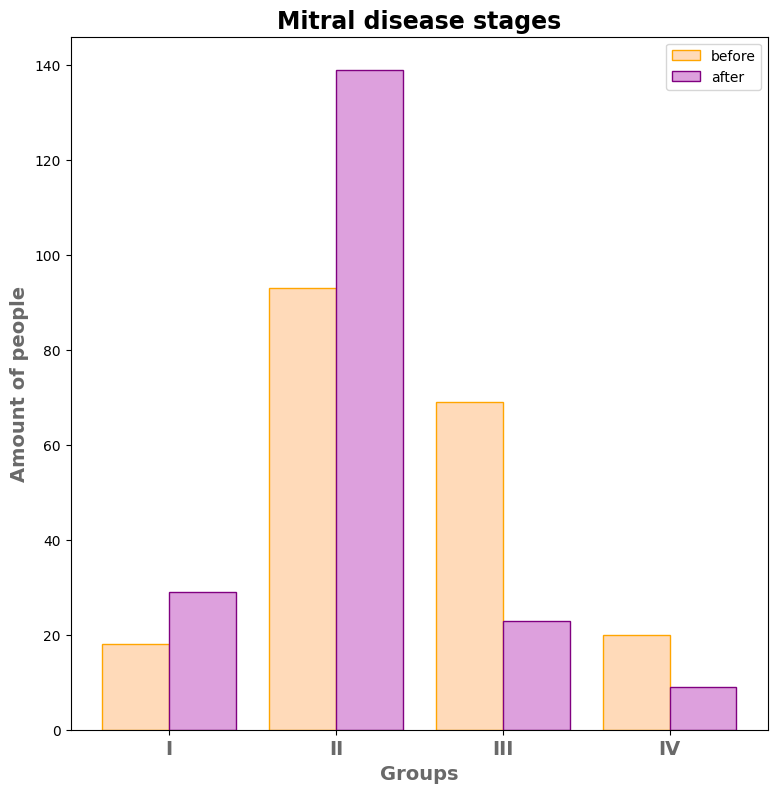
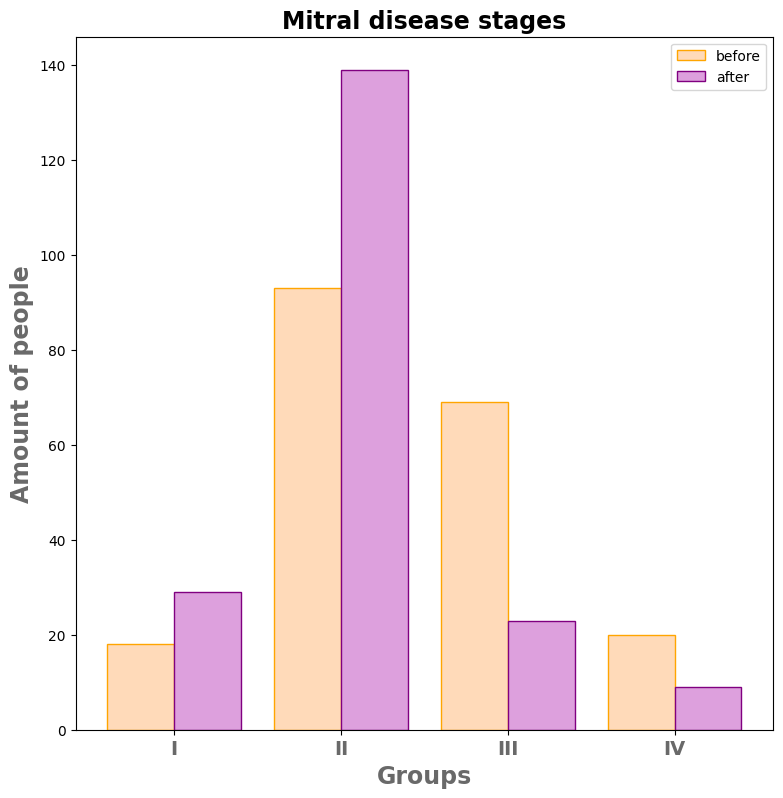
beautify code

diff --git a/solutions/sem02/lesson07/task1.py b/solutions/sem02/lesson07/task1.py
@@ -8,17 +8,11 @@ class ShapeMismatchError(Exception):
     pass
 
 
-def visualize_diagrams(
+def make_figure_axis(
     abscissa: np.ndarray,
     ordinates: np.ndarray,
-    diagram_type: Any,
-) -> None:
-    if abscissa.shape != ordinates.shape:
-        raise ShapeMismatchError
-
-    if diagram_type not in ["hist", "violin", "box"]:
-        raise ValueError
-
+    space: float = 0.2,
+) -> tuple[plt.Figure, plt.Axes, plt.Axes, plt.Axes]:
     figure = plt.figure(figsize=(8, 8))
     grid = plt.GridSpec(4, 4, wspace=space, hspace=space)
 
@@ -32,67 +26,124 @@ def visualize_diagrams(
         sharex=axis_scatter,
     )
 
-    axis_scatter.scatter(abscissa, ordinates, color="mediumseagreen", alpha=0.35)
-    axis_scatter.set_title("Distribution", fontsize=17, fontweight="bold", c="dimgray")
+    axis_scatter.scatter(
+        abscissa,
+        ordinates,
+        color="mediumseagreen",
+        alpha=0.35,
+    )
+    axis_scatter.set_title(
+        "Distribution",
+        fontsize=17,
+        fontweight="bold",
+        c="black",
+    )
+
+    return figure, axis_scatter, axis_hor, axis_vert
+
+
+def create_hist_distribution(
+    axis_hor: plt.Axes,
+    axis_vert: plt.Axes,
+    abscissa: np.ndarray,
+    ordinates: np.ndarray,
+) -> None:
+    hist_params = {
+        "bins": 50,
+        "color": "mediumseagreen",
+        "edgecolor": "darkgreen",
+        "alpha": 0.7,
+        "density": True,
+    }
+
+    axis_hor.hist(abscissa, **hist_params)
+    axis_vert.hist(ordinates, orientation="horizontal", **hist_params)
+
+    axis_hor.invert_yaxis()
+    axis_vert.invert_xaxis()
+
+
+def set_violin(
+    axis: plt.Axes,
+    data: np.ndarray,
+    vertical: bool,
+) -> None:
+    violin_parts = axis.violinplot(data, vert=vertical, showmedians=True)
+
+    for body in violin_parts["bodies"]:
+        body.set_facecolor("mediumseagreen")
+        body.set_edgecolor("aquamarine")
+
+    for part in violin_parts:
+        if part == "bodies":
+            continue
+        violin_parts[part].set_edgecolor("mediumseagreen")
+
+
+def create_violin_distribution(
+    axis_hor: plt.Axes,
+    axis_vert: plt.Axes,
+    abscissa: np.ndarray,
+    ordinates: np.ndarray,
+) -> None:
+    set_violin(axis_hor, ordinates, vertical=False)
+    set_violin(axis_vert, abscissa, vertical=True)
+
+
+def create_box_distribution(
+    axis_hor: plt.Axes,
+    axis_vert: plt.Axes,
+    abscissa: np.ndarray,
+    ordinates: np.ndarray,
+) -> None:
+    box_props = {"facecolor": "mediumseagreen", "alpha": 0.7}
+    box_params = {
+        "patch_artist": True,
+        "boxprops": box_props,
+    }
+
+    axis_vert.boxplot(abscissa, vert=True, **box_params)
+    axis_hor.boxplot(ordinates, vert=False, **box_params)
+
+
+def visualize_diagrams(
+    abscissa: np.ndarray,
+    ordinates: np.ndarray,
+    diagram_type: Any,
+) -> None:
+    if abscissa.shape != ordinates.shape:
+        raise ShapeMismatchError
+
+    valid_types = {"hist", "violin", "box"}
+    if diagram_type not in valid_types:
+        raise ValueError
+
+    space = 0.2
+    fig, ax_scatter, ax_hor, ax_vert = make_figure_axis(
+        abscissa,
+        ordinates,
+        space,
+    )
 
     if diagram_type == "hist":
-        axis_hor.hist(
-            abscissa,
-            bins=50,
-            color="aquamarine",
-            density=True,
-            alpha=0.7,
-        )
-        axis_vert.hist(
-            ordinates,
-            bins=50,
-            color="aquamarine",
-            orientation="horizontal",
-            density=True,
-            alpha=0.7,
-        )
-        axis_hor.invert_yaxis()
-        axis_vert.invert_xaxis()
-
+        create_hist_distribution(ax_hor, ax_vert, abscissa, ordinates)
     elif diagram_type == "violin":
-        violin_parts_vert = axis_vert.violinplot(abscissa, vert=True, showmedians=True)
-        violin_parts_hor = axis_hor.violinplot(ordinates, vert=False, showmedians=True)
-        for body in violin_parts_vert["bodies"]:
-            body.set_facecolor("mediumseagreen")
-            body.set_edgecolor("aquamarine")
-
-        for part in violin_parts_vert:
-            if part == "bodies":
-                continue
-
-            violin_parts_vert[part].set_edgecolor("mediumseagreen")
-
-        for body in violin_parts_hor["bodies"]:
-            body.set_facecolor("mediumseagreen")
-            body.set_edgecolor("aquamarine")
-
-        for part in violin_parts_hor:
-            if part == "bodies":
-                continue
-
-            violin_parts_hor[part].set_edgecolor("mediumseagreen")
-
+        create_violin_distribution(ax_hor, ax_vert, abscissa, ordinates)
     elif diagram_type == "box":
-        axis_vert.boxplot(
-            abscissa,
-            vert=True,
-            patch_artist=True,
-            boxprops=dict(facecolor="mediumseagreen", alpha=0.7),
-        )
-        axis_hor.boxplot(
-            ordinates,
-            vert=False,
-            patch_artist=True,
-            boxprops=dict(facecolor="mediumseagreen", alpha=0.7),
-        )
+        create_box_distribution(ax_hor, ax_vert, abscissa, ordinates)
 
-    axis_vert.set_ylabel("Vertical", fontsize=17, fontweight="bold", c="dimgray")
-    axis_hor.set_xlabel("Horizontal", fontsize=17, fontweight="bold", c="dimgray")
+    ax_vert.set_ylabel(
+        "Vertical",
+        fontsize=17,
+        fontweight="bold",
+        c="dimgray",
+    )
+    ax_hor.set_xlabel(
+        "Horizontal",
+        fontsize=17,
+        fontweight="bold",
+        c="dimgray",
+    )
 
 
 if __name__ == "__main__":

diff --git a/solutions/sem02/lesson07/task2.py b/solutions/sem02/lesson07/task2.py
@@ -14,11 +14,21 @@ def read_from_json(file_name: str) -> tuple[list[int], list[int]]:
     return before, after
 
 
-def get_counts_of_groups(before: list[int], after: list[int]) -> tuple[np.ndarray, np.ndarray]:
-    labels_before, counts_before = np.unique(np.array(before), return_counts=True)
-    labels_after, counts_after = np.unique(np.array(after), return_counts=True)
+def get_counts_of_groups(
+    before: list[int],
+    after: list[int],
+) -> tuple[np.ndarray, np.ndarray]:
+    counts_before = np.unique(np.array(before), return_counts=True)[1]
+    counts_after = np.unique(np.array(after), return_counts=True)[1]
 
     return counts_before, counts_after
+
+
+def add_labels(axis: plt.Axes):
+    text_param = {"fontsize": 17, "fontweight": "bold"}
+    axis.set_title("Mitral disease stages", c="black", **text_param)
+    axis.set_xlabel("Groups", c="dimgray", **text_param)
+    axis.set_ylabel("Amount of people", c="dimgray", **text_param)
 
 
 def visualize_diagrams(counts_before: np.ndarray, counts_after: np.ndarray):
@@ -41,16 +51,11 @@ def visualize_diagrams(counts_before: np.ndarray, counts_after: np.ndarray):
         edgecolor="purple",
         width=0.4,
     )
-    axis.set_xticks(
-        np.arange(labels.size),
-        labels=labels,
-        weight="bold",
-    )
+
+    axis.set_xticks(np.arange(labels.size), labels=labels, weight="bold")
     axis.tick_params(axis="x", labelsize=14, labelcolor="dimgray")
 
-    axis.set_title("Mitral disease stages", fontsize=17, fontweight="bold", c="black")
-    axis.set_xlabel("Groups", fontsize=14, fontweight="bold", c="dimgray")
-    axis.set_ylabel("Amount of people", fontsize=14, fontweight="bold", c="dimgray")
+    add_labels(axis)
     axis.legend((bar1, bar2), ["before", "after"])
 
     figure.savefig("Mitral disease stages.png", bbox_inches="tight")